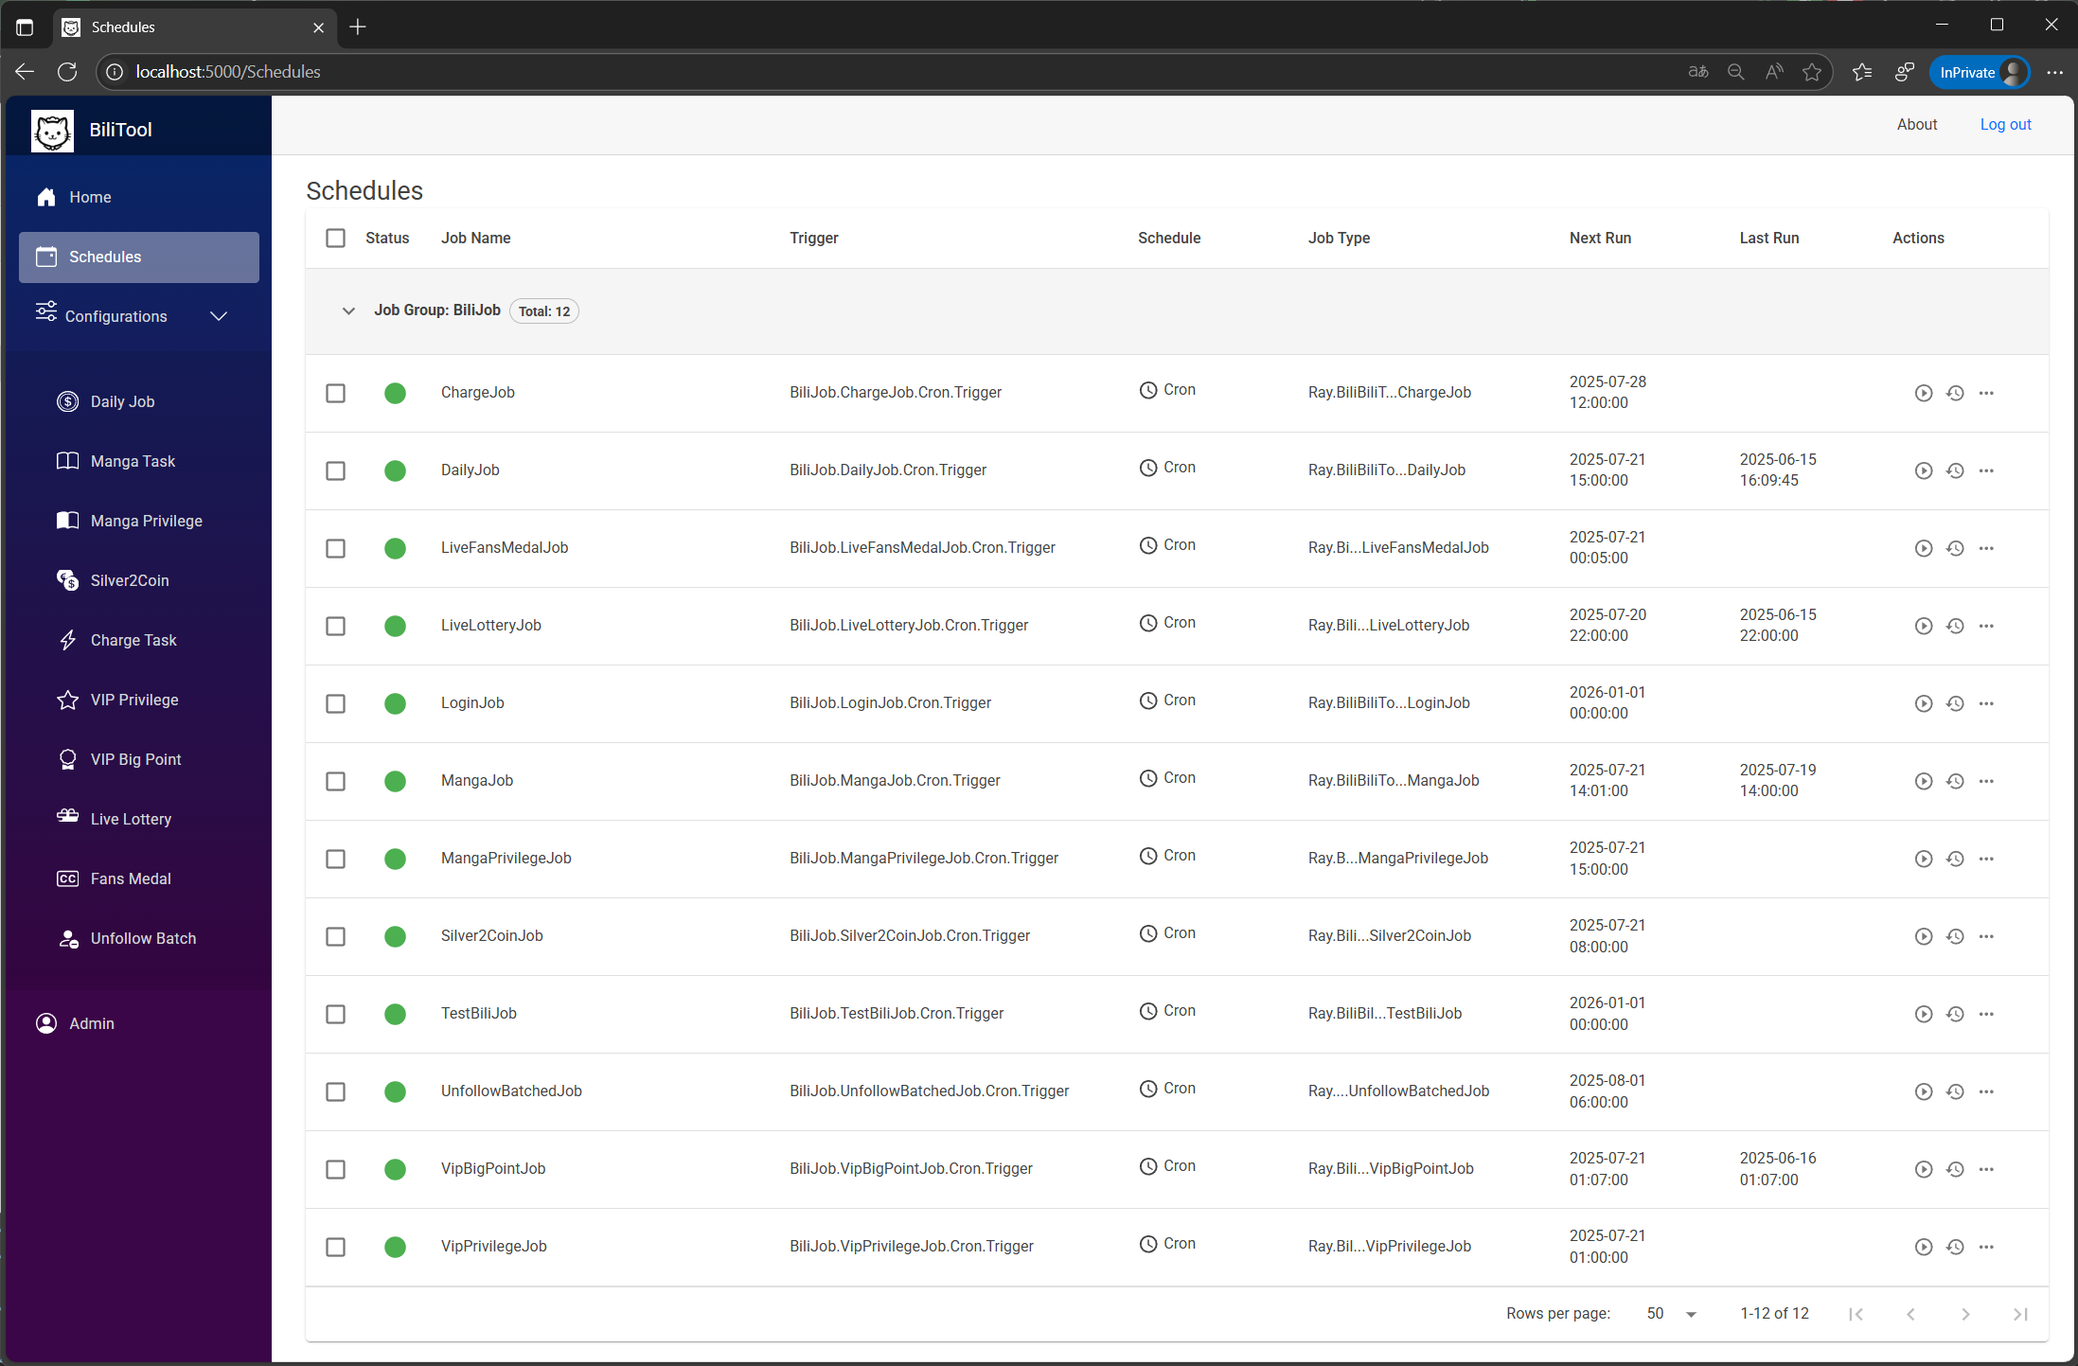
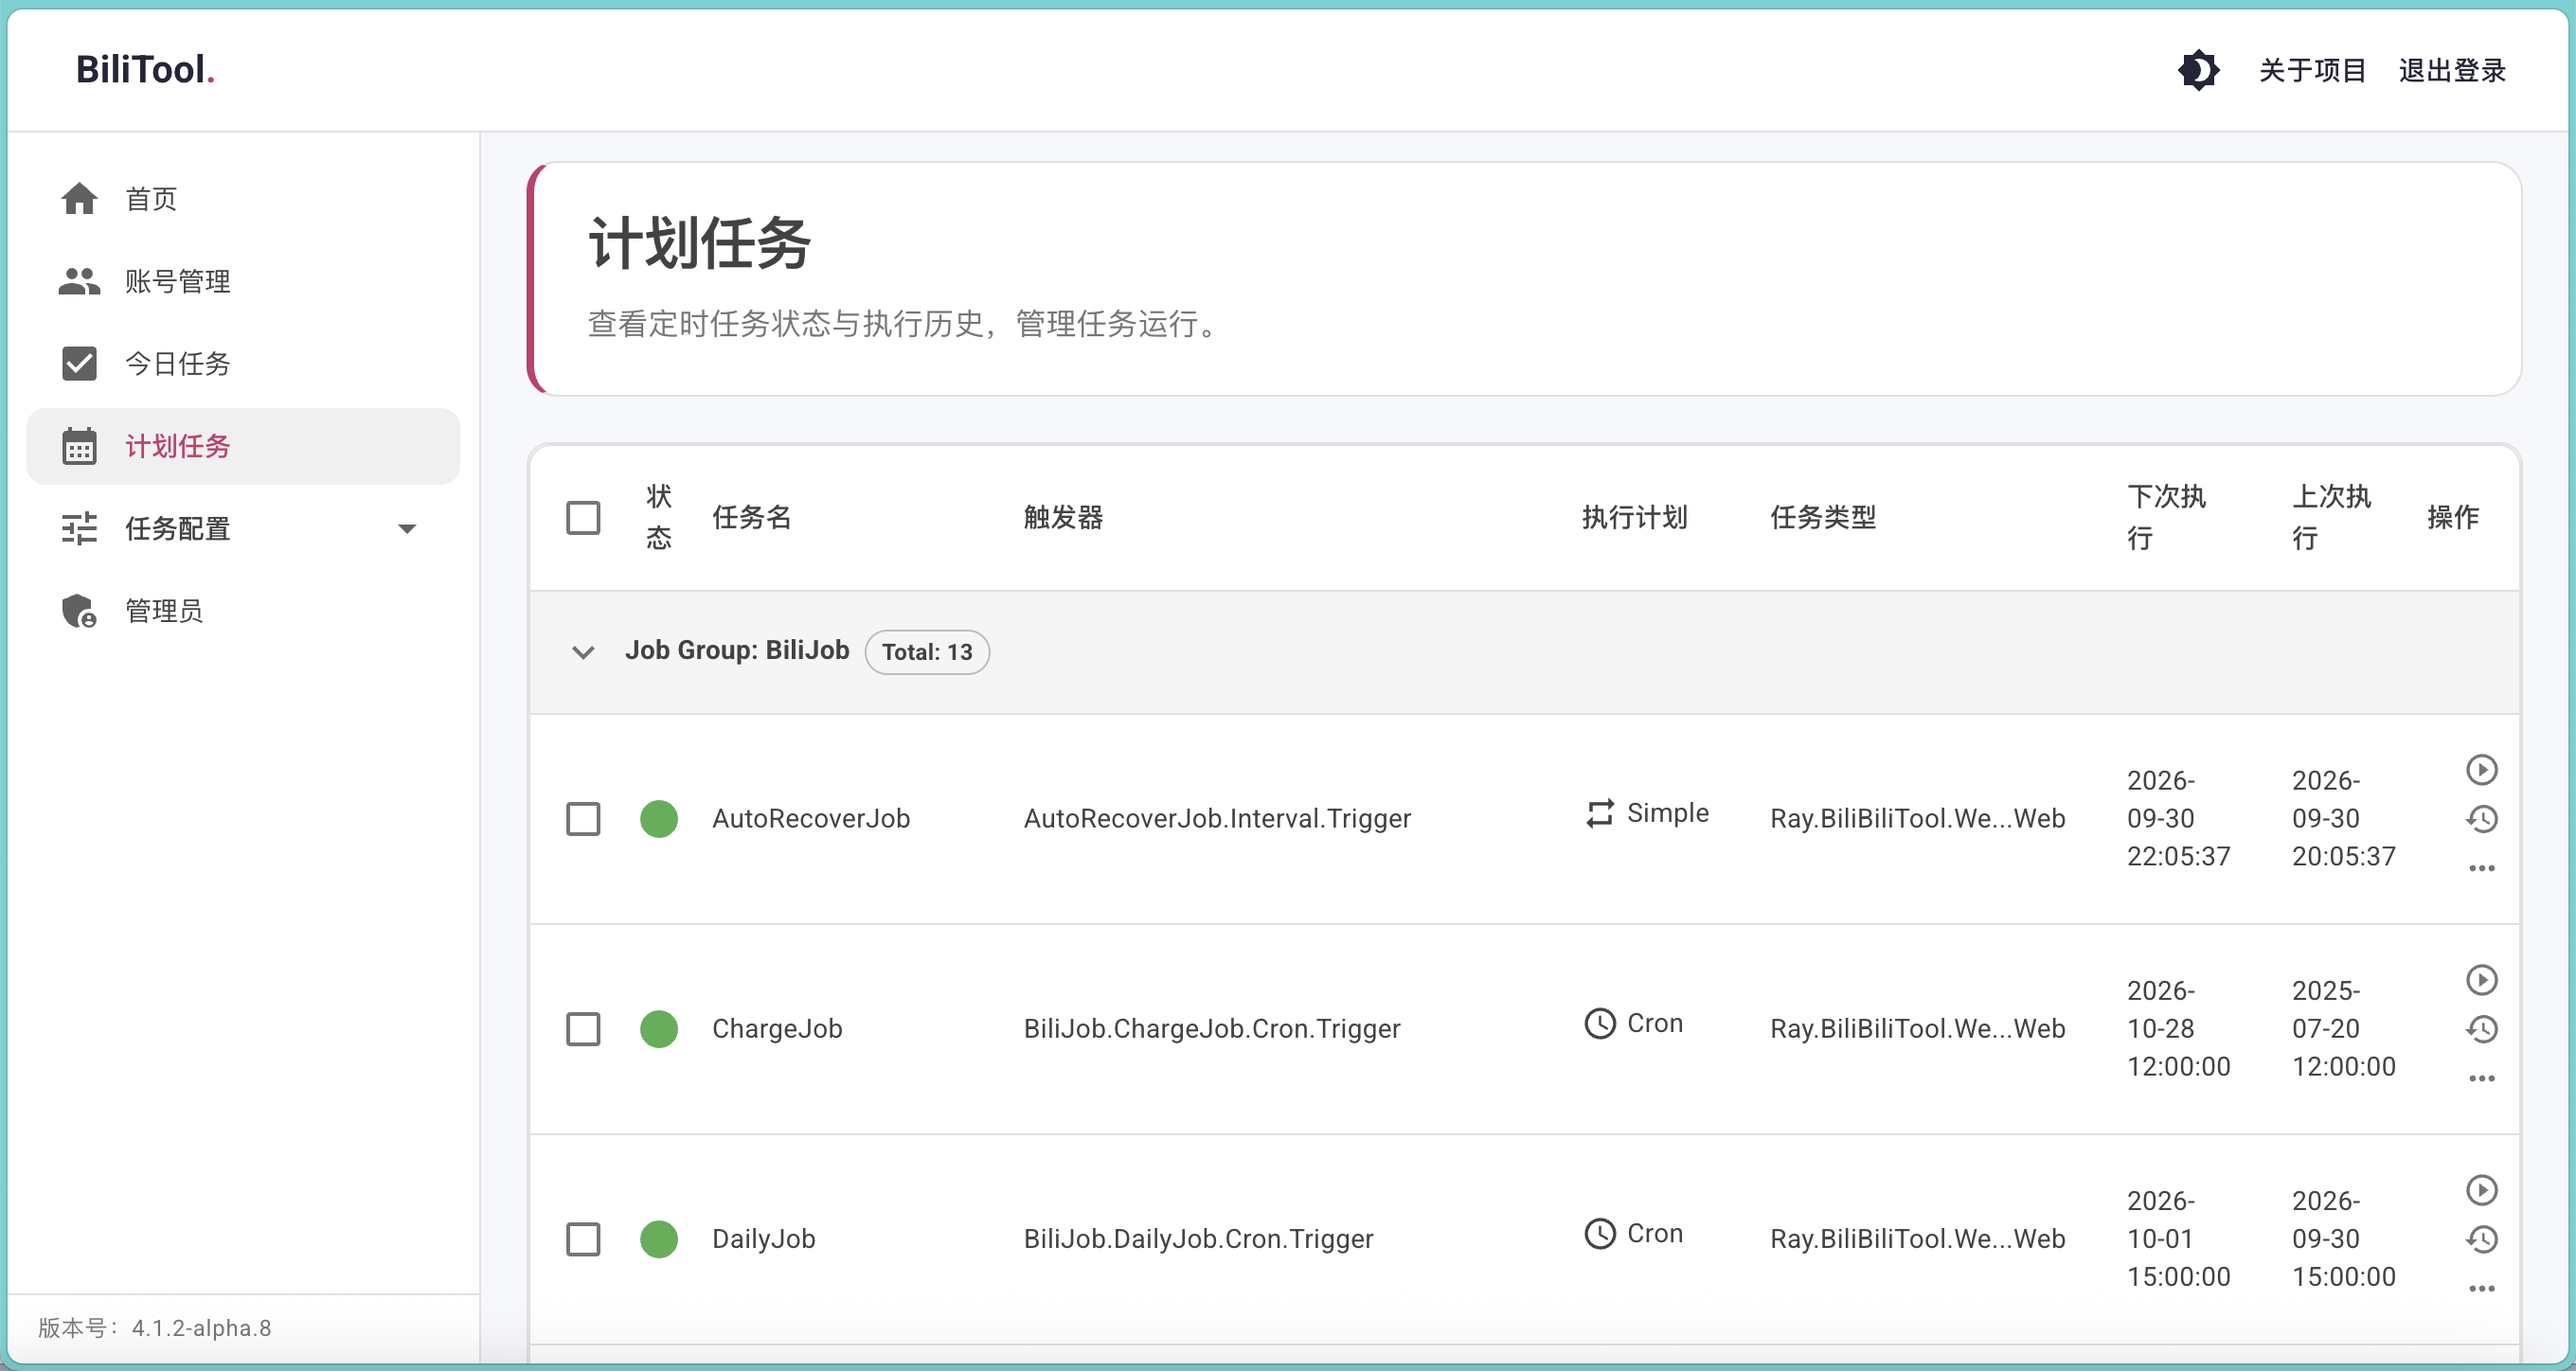
update README

diff --git a/README.md b/README.md
@@ -28,6 +28,8 @@ It supports QR-code login and cookie updates, multiple Bilibili accounts, daily 
 > This project is intended for learning and testing. Review the tasks and configuration before running them, use it responsibly, and comply with Bilibili's terms. Do not expose account cookies or other secrets in issues or public configuration.
 
 <p align="center">
+  <img src="docs/imgs/web-index.png" alt="Web panel schedules" width="800">
+  <br>
   <img src="docs/imgs/web-schedules.png" alt="Web panel schedules" width="800">
   <br>
   <img src="docs/imgs/web-schedules-log.png" alt="Web panel execution logs" width="800">
